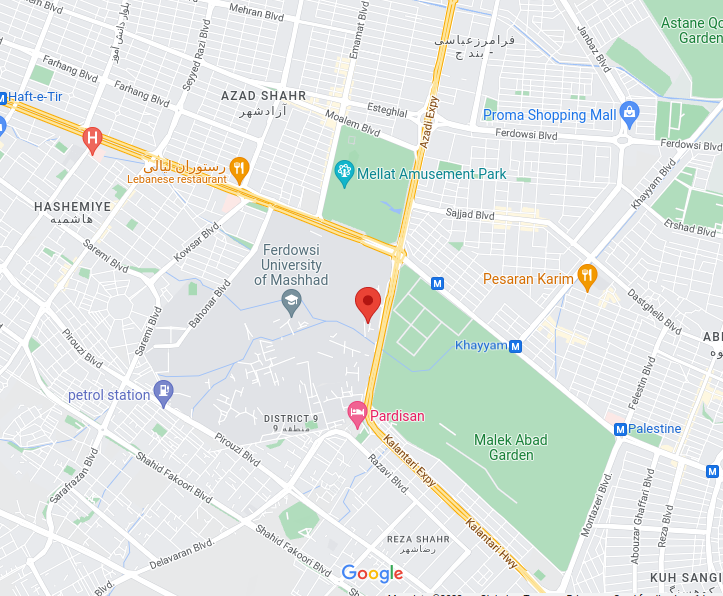
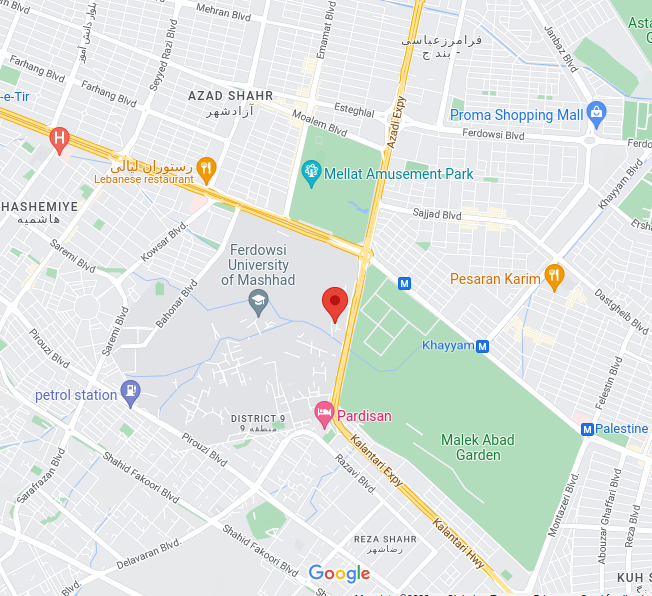
feat: image edit fixed: responsed map

diff --git a/layout/warpper.tsx b/layout/warpper.tsx
@@ -87,7 +87,7 @@ const warpper: FC<PropsType> = ({ children }) => {
                 </Link>
               </div>
             </div>
-            <div className="w-full md:mt-10 px-4 md:px-0 mt-6 md:ml-4 2xl:px-16 2xl:w-3/4 ">
+            <div className="w-full px-4   md:mt-10  mt-6 md:ml-4 lg:px-4 lg:w-3/4 xl:w-2/4 2xl:px-16 2xl:w-2/4 ">
               <div className="w-full">
                 <Link href="https://www.google.com/maps/place/36.309366,%2059.537432">
                   <a target="_blank"  className="relative h-full w-full block">
